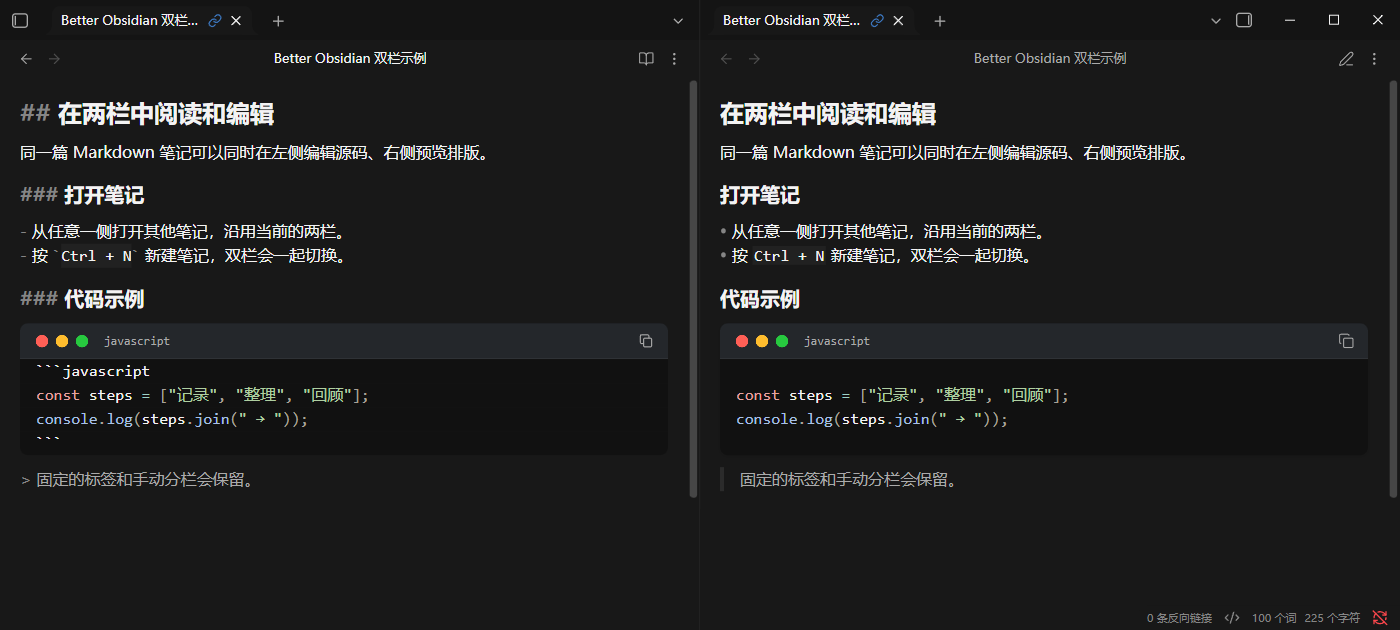
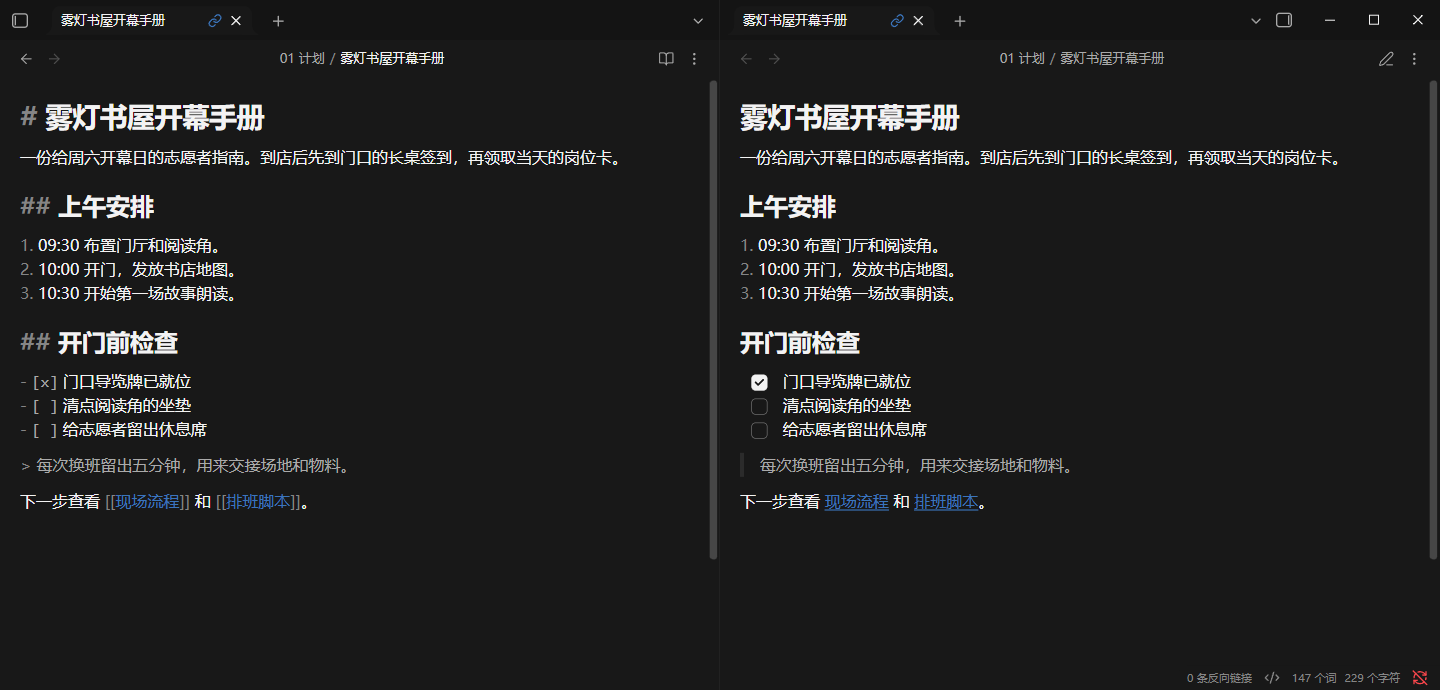
Document Better Obsidian with fictional vault examples

diff --git a/docs/examples/排班脚本.md b/docs/examples/排班脚本.md
@@ -1,0 +1,23 @@
+# 排班脚本
+
+按开始时间生成志愿者岗位列表。空行分开输入和输出，较长的说明可以折行显示。
+
+```javascript
+const shifts = [
+  { start: "09:30", desk: "门厅", team: "布置" },
+  { start: "10:00", desk: "前台", team: "接待" },
+  { start: "10:30", desk: "阅读角", team: "朗读" },
+];
+
+const formatShift = ({ start, desk, team }) =>
+  `${start}  ·  ${desk}  ·  ${team}`;
+
+const reminder = "换班前五分钟请到门厅长桌核对物料数量、岗位卡和未完成的交接事项，确认每位志愿者都知道下一班的联系人。";
+
+console.log(shifts.map(formatShift).join("\n"));
+console.log(reminder);
+```
+
+## 交接记录
+
+把缺少的物料补到 [[物料清单]]，并通知下一班。

diff --git a/docs/examples/雾灯书屋开幕手册.md b/docs/examples/雾灯书屋开幕手册.md
@@ -1,0 +1,19 @@
+# 雾灯书屋开幕手册
+
+一份给周六开幕日的志愿者指南。到店后先到门口的长桌签到，再领取当天的岗位卡。
+
+## 上午安排
+
+1. 09:30 布置门厅和阅读角。
+2. 10:00 开门，发放书店地图。
+3. 10:30 开始第一场故事朗读。
+
+## 开门前检查
+
+- [x] 门口导览牌已就位
+- [ ] 清点阅读角的坐垫
+- [ ] 给志愿者留出休息席
+
+> 每次换班留出五分钟，用来交接场地和物料。
+
+下一步查看 [[现场流程]] 和 [[排班脚本]]。

diff --git a/docs/examples/现场流程.md b/docs/examples/现场流程.md
@@ -1,0 +1,11 @@
+# 现场流程
+
+## 到店与交接
+
+- 09:30 门厅签到并领取岗位卡。
+- 10:00 门口发放地图，楼梯口安排一名引导员。
+- 11:20 清点剩余手册，补充饮水。
+
+## 收尾
+
+最后一班关好阅读角的落地灯，地图放回门厅长桌。

diff --git a/docs/examples/物料清单.md b/docs/examples/物料清单.md
@@ -1,0 +1,9 @@
+# 物料清单
+
+| 物料 | 数量 | 位置 |
+| --- | ---: | --- |
+| 书店地图 | 80 | 门厅长桌 |
+| 志愿者牌 | 12 | 前台抽屉 |
+| 阅读角坐垫 | 16 | 东侧书架 |
+
+> 余量计入下周的补货单。
